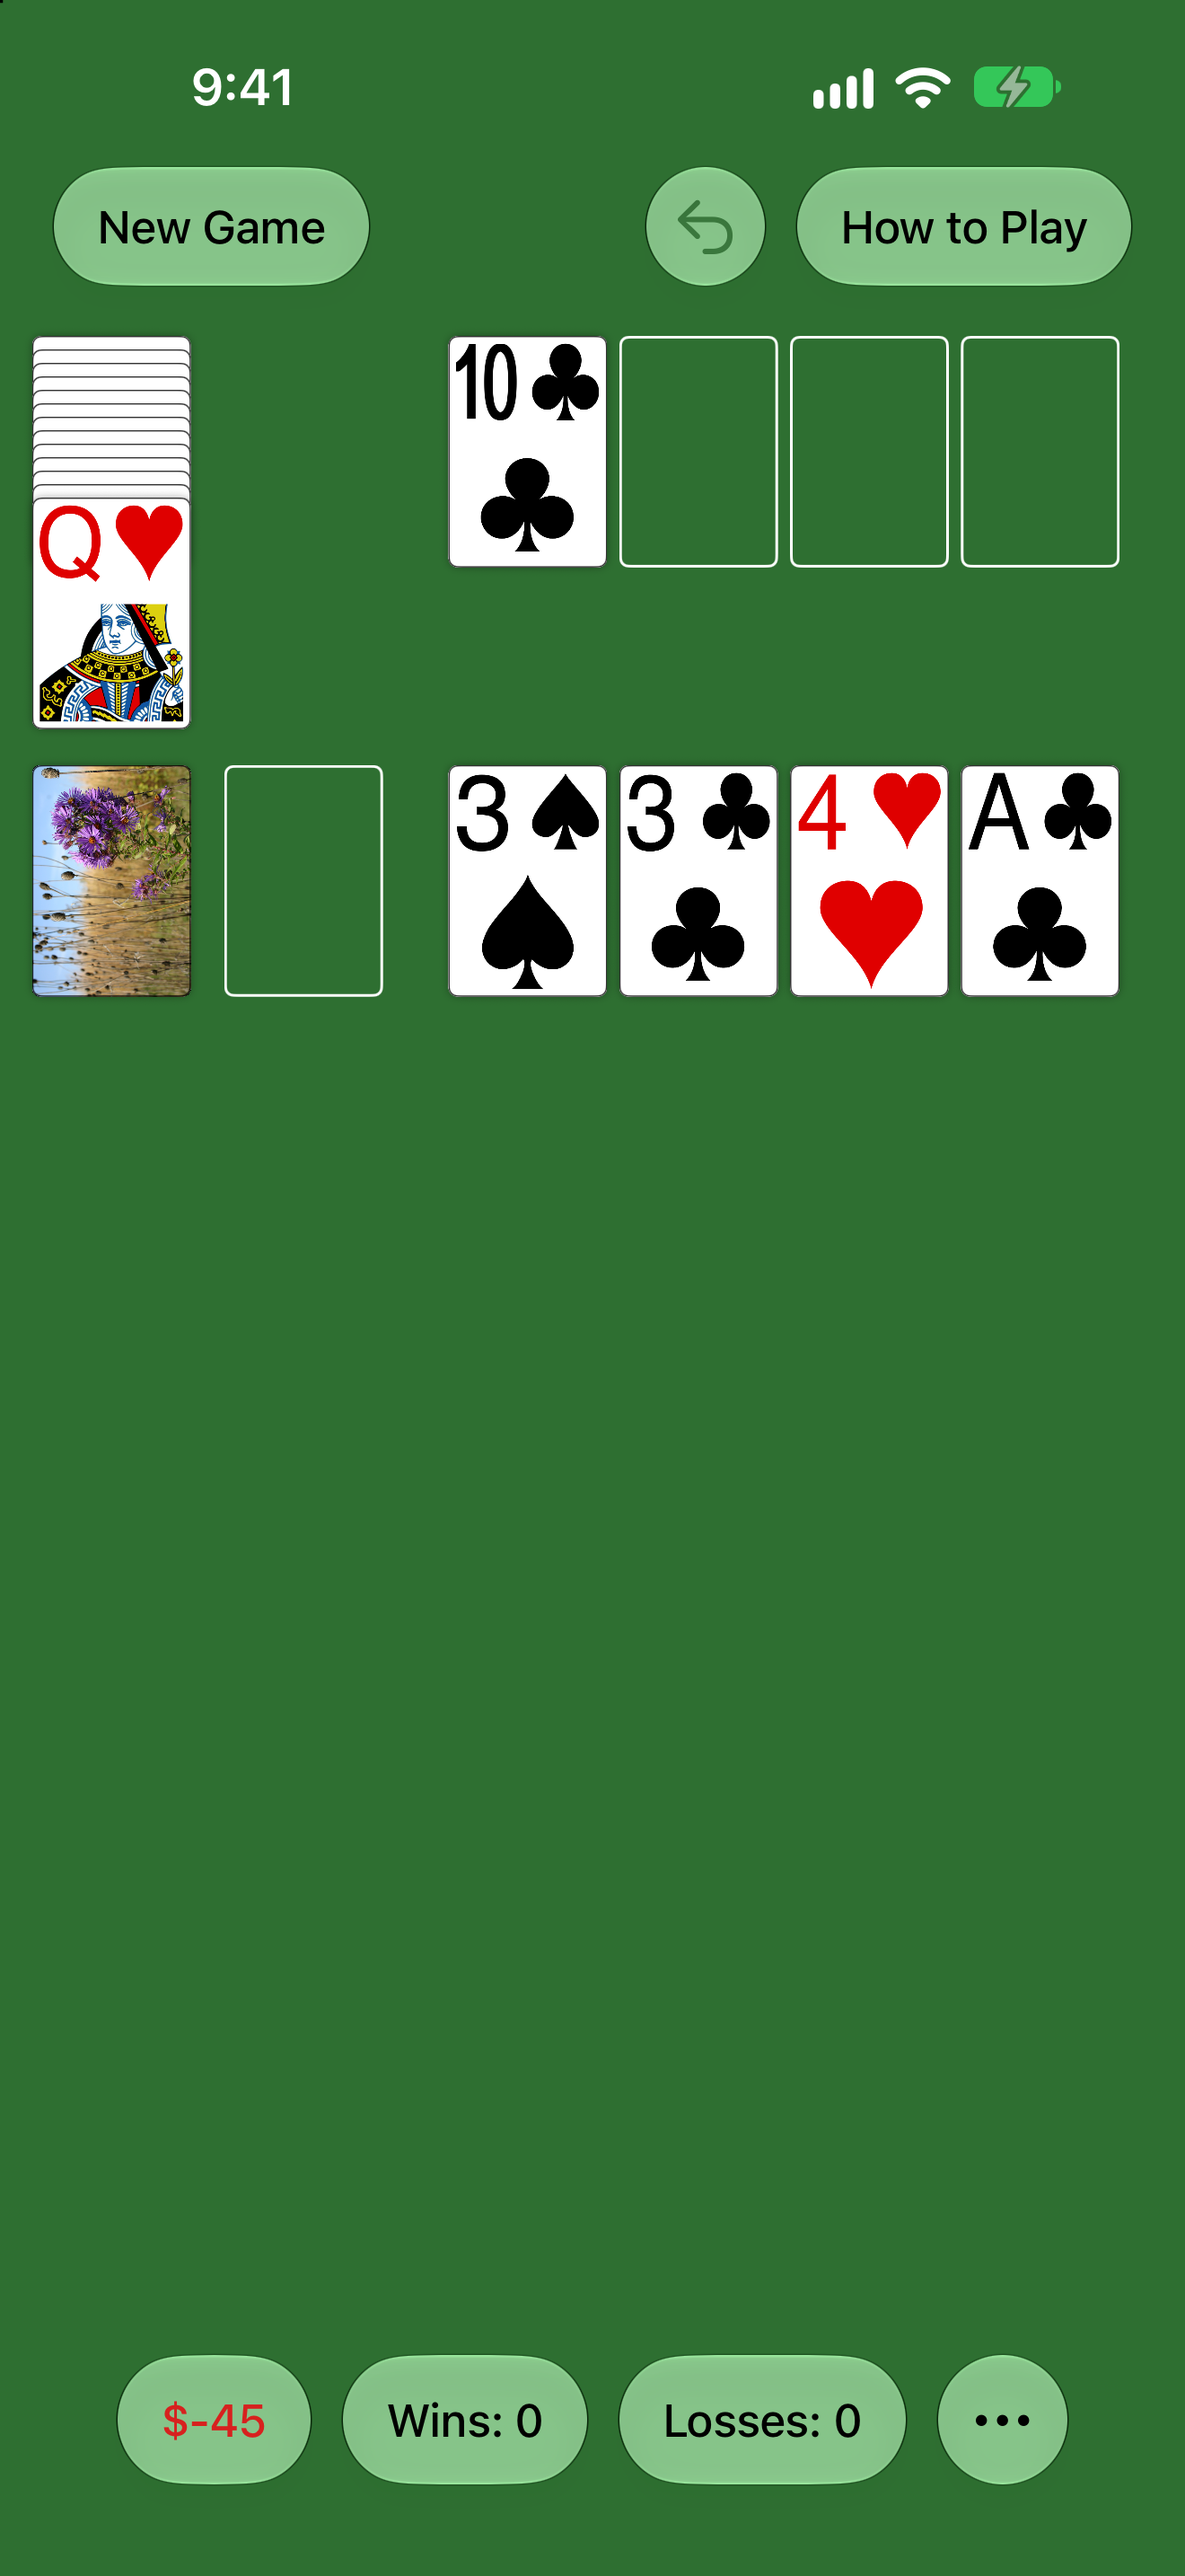
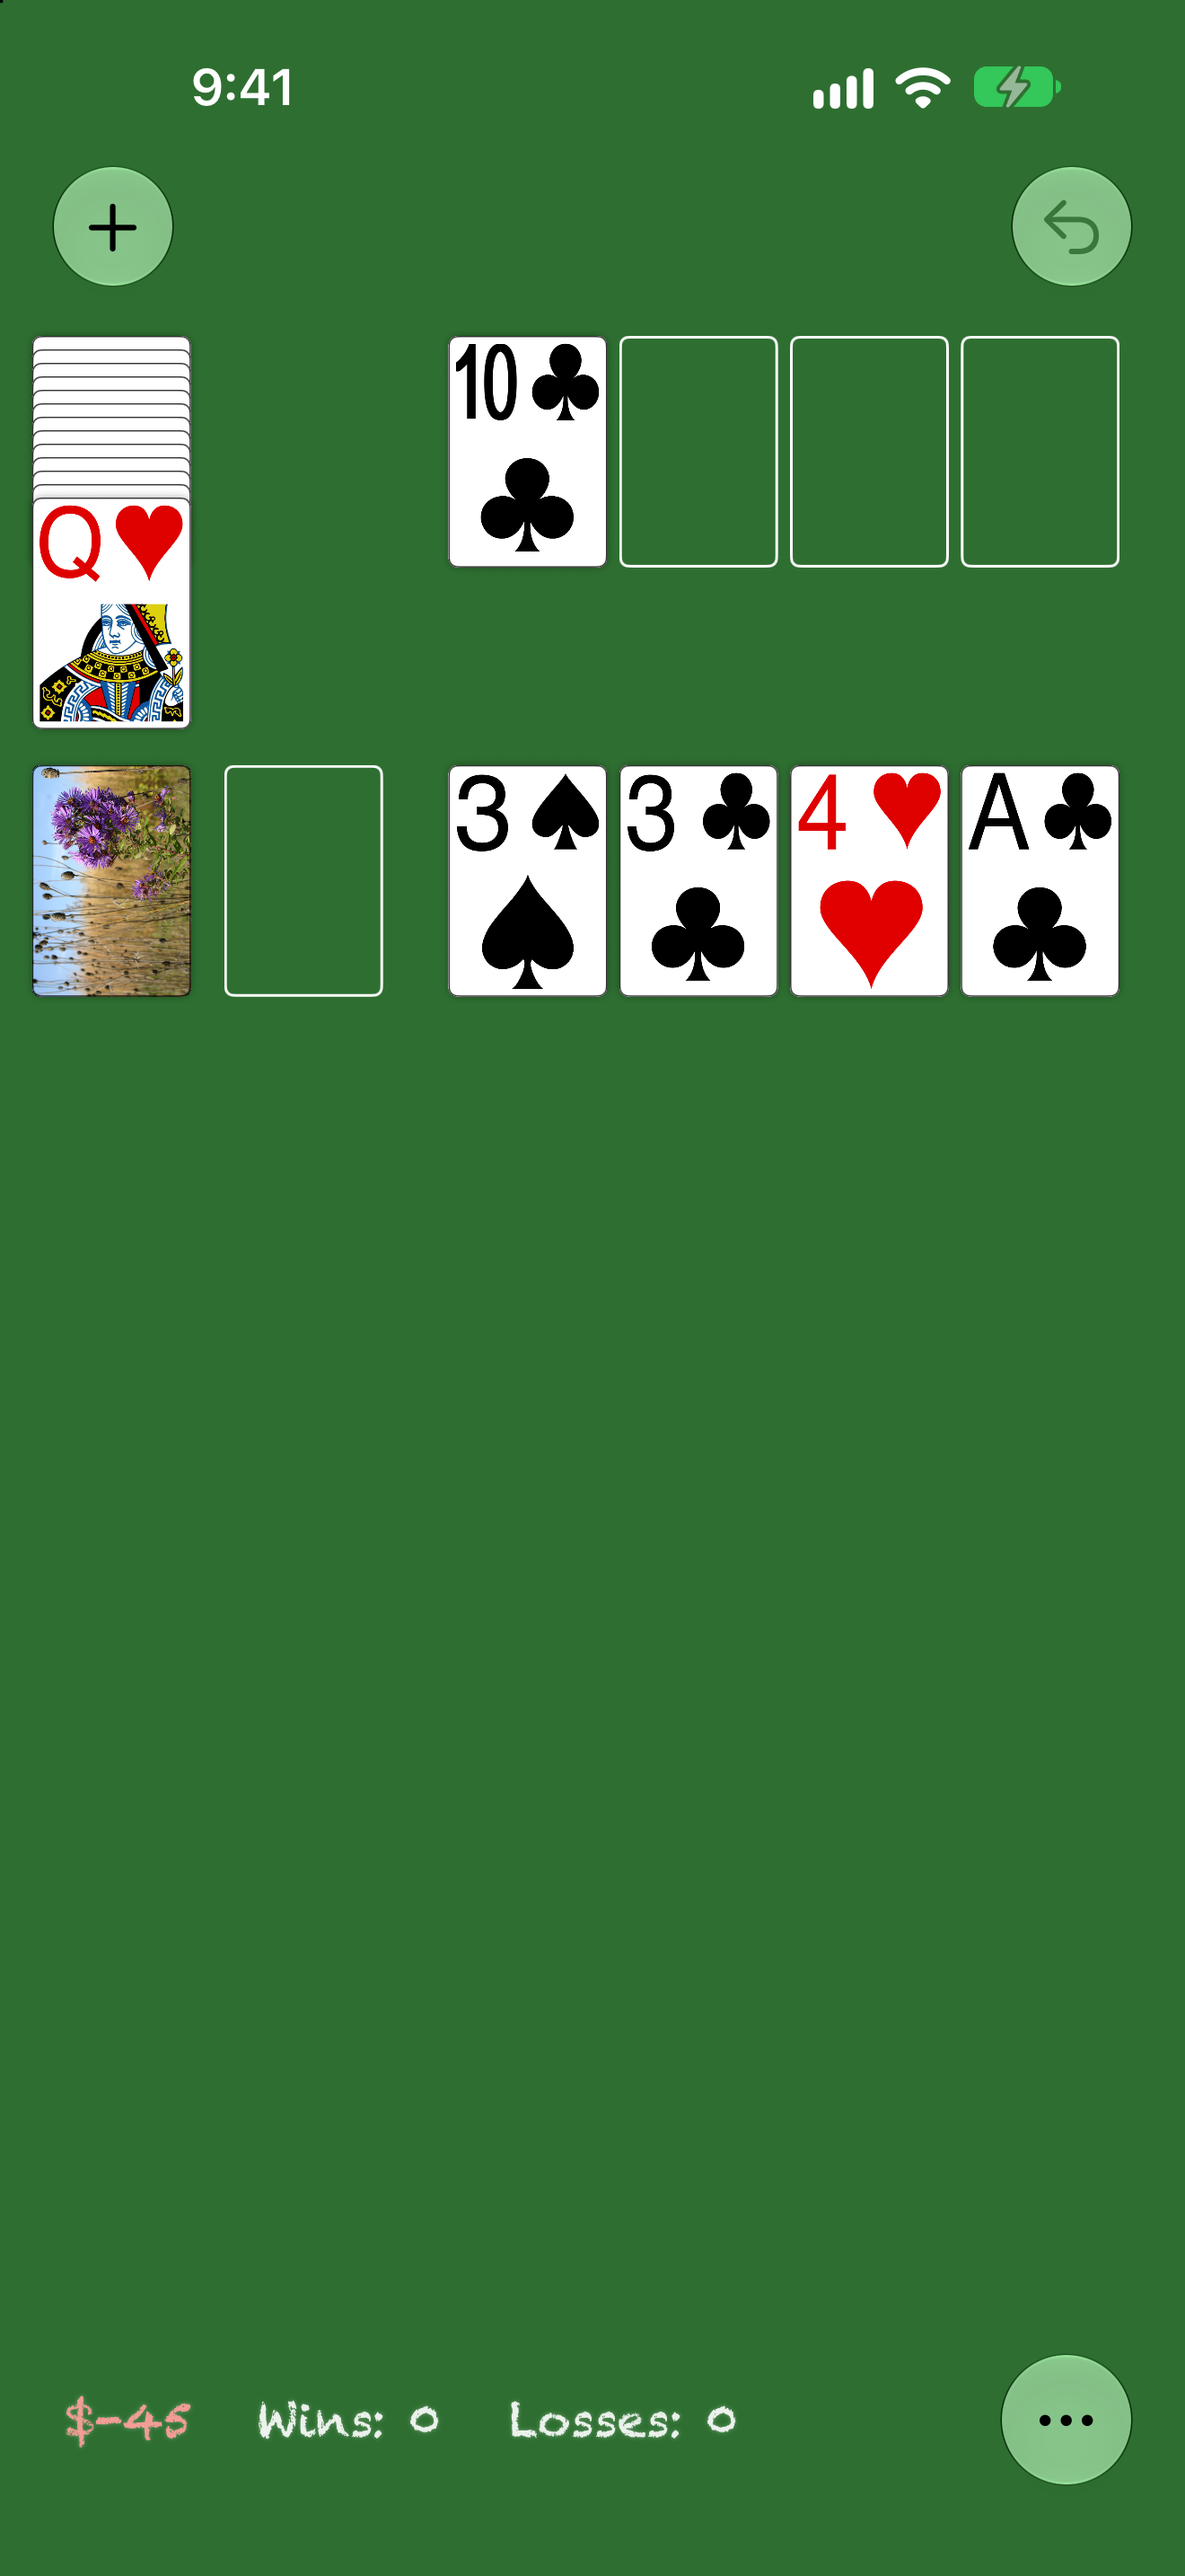
Chalk the score on the felt, make New Game a plus, and move How to Play into the menu
The score, wins and losses are written in Chalkduster on the table under the cards rather than in glass buttons:
along the bottom beside the "..." button, or in the left column in iPhone landscape.  Undo takes How to Play's place
on the right.  The App Store screenshots are regenerated to match.

Claude-Session: https://claude.ai/code/session_01CE1d5xP9GvDtiA7Rei4bWG

Changed region(s): [[0.0621, 0.8999, 0.9629, 0.962], [0.528, 0.0621, 0.9318, 0.1241], [0.0621, 0.0621, 0.3106, 0.1241]]

diff --git a/Suze Solitaire/ViewController+SideColumns.swift b/Suze Solitaire/ViewController+SideColumns.swift
@@ -5,9 +5,10 @@
 
 import UIKit
 
-// iPhone landscape is too short for a toolbar under the table, so its buttons move to columns beside it: the score,
-// wins and losses under New Game on the left, and the "..." menu and the banners under How to Play on the right.
-// redrawTable keeps the cards between the columns.
+// The score, wins and losses are chalked on the felt rather than shown as buttons, since they only show the numbers:
+// along the bottom next to the "..." button, or in iPhone landscape, which is too short for a toolbar under the table,
+// in a column under New Game on the left, with the "..." menu and the banners under Undo on the right.  redrawTable
+// keeps the cards between the columns.
 extension ViewController {
 
     static let sideColumnWidth: CGFloat = 116
@@ -35,7 +36,8 @@ extension ViewController {
         }
         self.sideColumns?.left.isHidden  = !side
         self.sideColumns?.right.isHidden = !side
-        self.updateSideColumns()
+        self.chalkLine.isHidden = side
+        self.updateChalk()
         for banner in [self.newGameUndoBanner, self.noMovesBanner].compactMap({ $0 }) {
             self.placeBanner(banner)
         }
@@ -43,16 +45,18 @@ extension ViewController {
     }
 
     func buildSideColumns() {
-        let stats = [self.bucksBarButtonItem, self.winsBarButtonItem, self.lossesBarButtonItem].map { _ in
-            let button = self.sideButton()
-            // Like the toolbar's, these only show the numbers
-            button.isUserInteractionEnabled = false
-            button.accessibilityTraits = .staticText
-            return button
+        let chalk = (0..<3).map { _ in
+            let label = UILabel()
+            // Shrinks rather than cut off a long record
+            label.adjustsFontSizeToFitWidth = true
+            label.minimumScaleFactor = 0.6
+            return label
         }
-        let left = UIStackView(arrangedSubviews: stats)
+        let left = UIStackView(arrangedSubviews: chalk)
         left.axis    = .vertical
         left.spacing = ViewController.sideColumnSpacing
+        left.isLayoutMarginsRelativeArrangement = true
+        left.directionalLayoutMargins = NSDirectionalEdgeInsets(top: 4, leading: 4, bottom: 0, trailing: 0)
 
         let menu = self.sideButton()
         menu.configuration?.image = UIImage(systemName: "ellipsis")
@@ -64,7 +68,7 @@ extension ViewController {
         right.alignment = .trailing
 
         let safe = self.view.safeAreaLayoutGuide
-        // updateControlPlacement lines these up with New Game and How to Play
+        // updateControlPlacement lines these up with New Game and Undo
         let leading  = left.leadingAnchor.constraint(equalTo: self.view.leadingAnchor)
         let trailing = right.trailingAnchor.constraint(equalTo: self.view.trailingAnchor)
         leading.identifier  = "sideColumnInset"
@@ -82,7 +86,7 @@ extension ViewController {
             right.widthAnchor.constraint(equalToConstant: ViewController.sideColumnWidth),
             menu.widthAnchor.constraint(greaterThanOrEqualTo: menu.heightAnchor),
         ])
-        self.sideColumns = (left, right, stats, menu)
+        self.sideColumns = (left, right, chalk, menu)
     }
 
     func sideButton() -> UIButton {
@@ -104,15 +108,52 @@ extension ViewController {
         return UIButton(configuration: config)
     }
 
-    // Copies the toolbar's numbers and their colors to the side columns
-    func updateSideColumns() {
-        guard let columns = self.sideColumns else {
+    func setUpChalk() {
+        let bucks = self.bucksBarButtonItem!, wins = self.winsBarButtonItem!, losses = self.lossesBarButtonItem!
+        // The toolbar's number items keep the numbers but aren't shown, leaving the "..." button at the right
+        for item in [bucks, wins, losses] {
+            item.isHidden = true
+        }
+        self.toolbar.items = [bucks, wins, losses, .flexibleSpace()] + [self.menuBarButtonItem].compactMap { $0 }
+        let line = self.chalkLine
+        line.adjustsFontSizeToFitWidth = true
+        line.minimumScaleFactor = 0.6
+        line.translatesAutoresizingMaskIntoConstraints = false
+        // Painted on the table, so under the cards
+        self.view.insertSubview(line, at: 0)
+        NSLayoutConstraint.activate([
+            line.leadingAnchor.constraint(equalTo: self.view.safeAreaLayoutGuide.leadingAnchor, constant: 24),
+            line.trailingAnchor.constraint(lessThanOrEqualTo: self.view.safeAreaLayoutGuide.trailingAnchor, constant: -88),
+            line.centerYAnchor.constraint(equalTo: self.toolbar.centerYAnchor),
+        ])
+        self.updateChalk()
+    }
+
+    // Chalks the toolbar's numbers on the felt: the score in red chalk when it's below zero
+    func updateChalk() {
+        guard let bucks = self.bucksBarButtonItem, let wins = self.winsBarButtonItem, let losses = self.lossesBarButtonItem else {
             return
         }
-        for (item, button) in zip([self.bucksBarButtonItem, self.winsBarButtonItem, self.lossesBarButtonItem], columns.stats) {
-            button.configuration?.title = item?.title
-            button.configuration?.baseForegroundColor = item?.tintColor ?? .label
-            button.accessibilityLabel = item?.title
+        let negative = (bucks.title ?? "").hasPrefix("$-")
+        let shadow = NSShadow()
+        shadow.shadowColor      = UIColor.white.withAlphaComponent(0.35)
+        shadow.shadowBlurRadius = 1.5
+        func chalk(_ string: String?, red: Bool = false, size: CGFloat) -> NSAttributedString {
+            let color = red ? UIColor(red: 1, green: 0.62, blue: 0.6, alpha: 0.92) : UIColor.white.withAlphaComponent(0.88)
+            return NSAttributedString(string: string ?? "", attributes: [
+                .font: UIFont(name: "Chalkduster", size: size) ?? .systemFont(ofSize: size), .foregroundColor: color, .shadow: shadow])
+        }
+        let titles = [bucks.title, wins.title, losses.title]
+        // Bigger on the wider iPad table
+        let size: CGFloat = self.traitCollection.horizontalSizeClass == .regular ? 24 : 17
+        let line = NSMutableAttributedString(attributedString: chalk(titles[0], red: negative, size: size))
+        for title in titles.dropFirst() {
+            line.append(chalk("   " + (title ?? ""), size: size))
+        }
+        self.chalkLine.attributedText     = line
+        self.chalkLine.accessibilityLabel = titles.compactMap { $0 }.joined(separator: ", ")
+        for (i, label) in (self.sideColumns?.chalk ?? []).enumerated() {
+            label.attributedText = chalk(titles[i], red: i == 0 && negative, size: 18)
         }
     }
 

diff --git a/Suze SolitaireTests/Suze_SolitaireTests.swift b/Suze SolitaireTests/Suze_SolitaireTests.swift
@@ -165,8 +165,8 @@ final class Suze_SolitaireTests: XCTestCase {
         let columns = try XCTUnwrap(vc.sideColumns)
         XCTAssertTrue(vc.toolbar.isHidden)
         XCTAssertFalse(columns.left.isHidden)
-        XCTAssertEqual(columns.stats.map { $0.configuration?.title }, ["$-725", "Wins: 3", "Losses: 17"])
-        XCTAssertEqual(columns.stats[0].configuration?.baseForegroundColor, .systemRed)
+        XCTAssertEqual(columns.chalk.map { $0.text }, ["$-725", "Wins: 3", "Losses: 17"])
+        XCTAssertTrue(vc.chalkLine.isHidden)
         XCTAssertNotNil(columns.menu.menu, "the ... button has the menu")
         for stack in allStacks(vc) {
             XCTAssertGreaterThan(stack!.view.frame.minX, columns.left.frame.maxX, "\(stack!.stackType) is under the stats")
@@ -185,10 +185,38 @@ final class Suze_SolitaireTests: XCTestCase {
         vc.view.layoutIfNeeded()
         XCTAssertFalse(vc.toolbar.isHidden)
         XCTAssertTrue(columns.left.isHidden)
+        XCTAssertFalse(vc.chalkLine.isHidden)
         XCTAssertEqual(banner.frame.maxY, vc.toolbar.frame.minY - ViewController.bannerSpacing, accuracy: 0.5)
         XCTAssertGreaterThan(banner.frame.width, ViewController.sideColumnWidth, "back on one line, not still column-width")
         XCTAssertLessThan(banner.frame.height, 60)
         XCTAssertEqual(vc.view.subviews.last, banner, "banners stay above the cards")
+    }
+
+    func testScoreIsChalkedOnTheFelt() throws {
+        vc.score  = -45
+        vc.wins   = 2
+        vc.losses = 1
+        XCTAssertEqual(vc.chalkLine.text, "$-45   Wins: 2   Losses: 1")
+        XCTAssertEqual(vc.chalkLine.accessibilityLabel, "$-45, Wins: 2, Losses: 1")
+        XCTAssertEqual(vc.chalkLine.font.fontName, "Chalkduster")
+        let red = try XCTUnwrap(vc.chalkLine.attributedText?.attribute(.foregroundColor, at: 0, effectiveRange: nil) as? UIColor)
+        let white = try XCTUnwrap(vc.chalkLine.attributedText?.attribute(.foregroundColor, at: 8, effectiveRange: nil) as? UIColor)
+        XCTAssertNotEqual(red, white, "a score below zero is in red chalk")
+        XCTAssertTrue(vc.view.subviews.first === vc.chalkLine, "painted on the table, under the cards")
+        // Only the "..." button shows in the toolbar
+        XCTAssertEqual(vc.toolbar.items?.filter { !$0.isHidden && $0.image != nil }.count, 1)
+        XCTAssertEqual([vc.bucksBarButtonItem, vc.winsBarButtonItem, vc.lossesBarButtonItem].map { $0!.isHidden }, [true, true, true])
+        // New Game is a plus, still named for VoiceOver
+        let newGame = try XCTUnwrap(vc.navigationItem.leftBarButtonItem)
+        XCTAssertNil(newGame.title)
+        XCTAssertEqual(newGame.accessibilityLabel, "New Game")
+    }
+
+    func testHowToPlayIsInTheMenu() throws {
+        let menu = try XCTUnwrap(vc.menuBarButtonItem?.menu)
+        let inline = try XCTUnwrap(menu.children.first as? UIMenu)
+        XCTAssertEqual(inline.children.map { $0.title }, ["Hint", "How to Play"])
+        XCTAssertEqual(vc.navigationItem.rightBarButtonItems?.count, 1, "just Undo on the right")
     }
 
     func testDarkModeDimsTheOutlinesButNotTheCards() throws {

diff --git a/Suze Solitaire/ViewController.swift b/Suze Solitaire/ViewController.swift
@@ -41,8 +41,10 @@ class ViewController: UIViewController {
     @IBOutlet weak var undoBarButtonItem: UIBarButtonItem!
     @IBOutlet weak var toolbar: UIToolbar!
     var menuBarButtonItem: UIBarButtonItem? = nil
-    // The toolbar's buttons, beside the table in iPhone landscape (see ViewController+SideColumns.swift)
-    var sideColumns: (left: UIStackView, right: UIStackView, stats: [UIButton], menu: UIButton)? = nil
+    // The score, wins and losses chalked on the felt beside the "..." button (see ViewController+SideColumns.swift)
+    let chalkLine = UILabel()
+    // The chalked numbers and the "..." button beside the table in iPhone landscape
+    var sideColumns: (left: UIStackView, right: UIStackView, chalk: [UILabel], menu: UIButton)? = nil
     // Banners sit this far above the toolbar, and the table stops short of them
     static let bannerSpacing: CGFloat = 12
     static let bannerHeight: CGFloat  = 44
@@ -68,7 +70,7 @@ class ViewController: UIViewController {
             else {
                 bucksBarButtonItem.tintColor = .label
             }
-            self.updateSideColumns()
+            self.updateChalk()
         }
     }
     
@@ -79,7 +81,7 @@ class ViewController: UIViewController {
         }
         set(newWins) {
             winsBarButtonItem.title = String(format: "Wins: %d", newWins)
-            self.updateSideColumns()
+            self.updateChalk()
         }
     }
     
@@ -90,7 +92,7 @@ class ViewController: UIViewController {
         }
         set(newLosses) {
             lossesBarButtonItem.title = String(format:"Losses: %d", newLosses)
-            self.updateSideColumns()
+            self.updateChalk()
         }
     }
     
@@ -170,8 +172,14 @@ class ViewController: UIViewController {
         
         let menuItem = UIBarButtonItem(image: UIImage(systemName: "ellipsis"), menu: self.buildMenu())
         menuItem.accessibilityLabel = "More"
-        self.toolbar.items = (self.toolbar.items ?? []) + [menuItem]
         self.menuBarButtonItem = menuItem
+        self.setUpChalk()
+        // New Game is a plus, like the New Game button in the "No moves left" banner
+        if let newGame = self.navigationItem.leftBarButtonItem {
+            newGame.title = nil
+            newGame.image = UIImage(systemName: "plus")
+            newGame.accessibilityLabel = "New Game"
+        }
     }
     
     override func viewDidAppear(_ animated: Bool) {

diff --git a/Suze Solitaire/ViewController+Menu.swift b/Suze Solitaire/ViewController+Menu.swift
@@ -49,7 +49,15 @@ extension ViewController: PHPickerViewControllerDelegate {
         let about = UIAction(title: "About", image: UIImage(systemName: "info.circle")) { _ in
             self.showAbout()
         }
-        return UIMenu(children: [UIMenu(options: .displayInline, children: [hint]), auto, noMoves, drops, cardBack, resetStats, about])
+        let howToPlay = UIAction(title: "How to Play", image: UIImage(systemName: "questionmark.circle")) { _ in
+            self.showHowToPlay()
+        }
+        return UIMenu(children: [UIMenu(options: .displayInline, children: [hint, howToPlay]), auto, noMoves, drops, cardBack, resetStats, about])
+    }
+
+    func showHowToPlay() {
+        let rules = self.storyboard!.instantiateViewController(withIdentifier: "howToPlay")
+        self.navigationController?.pushViewController(rules, animated: true)
     }
 
     func updateMenu() {
